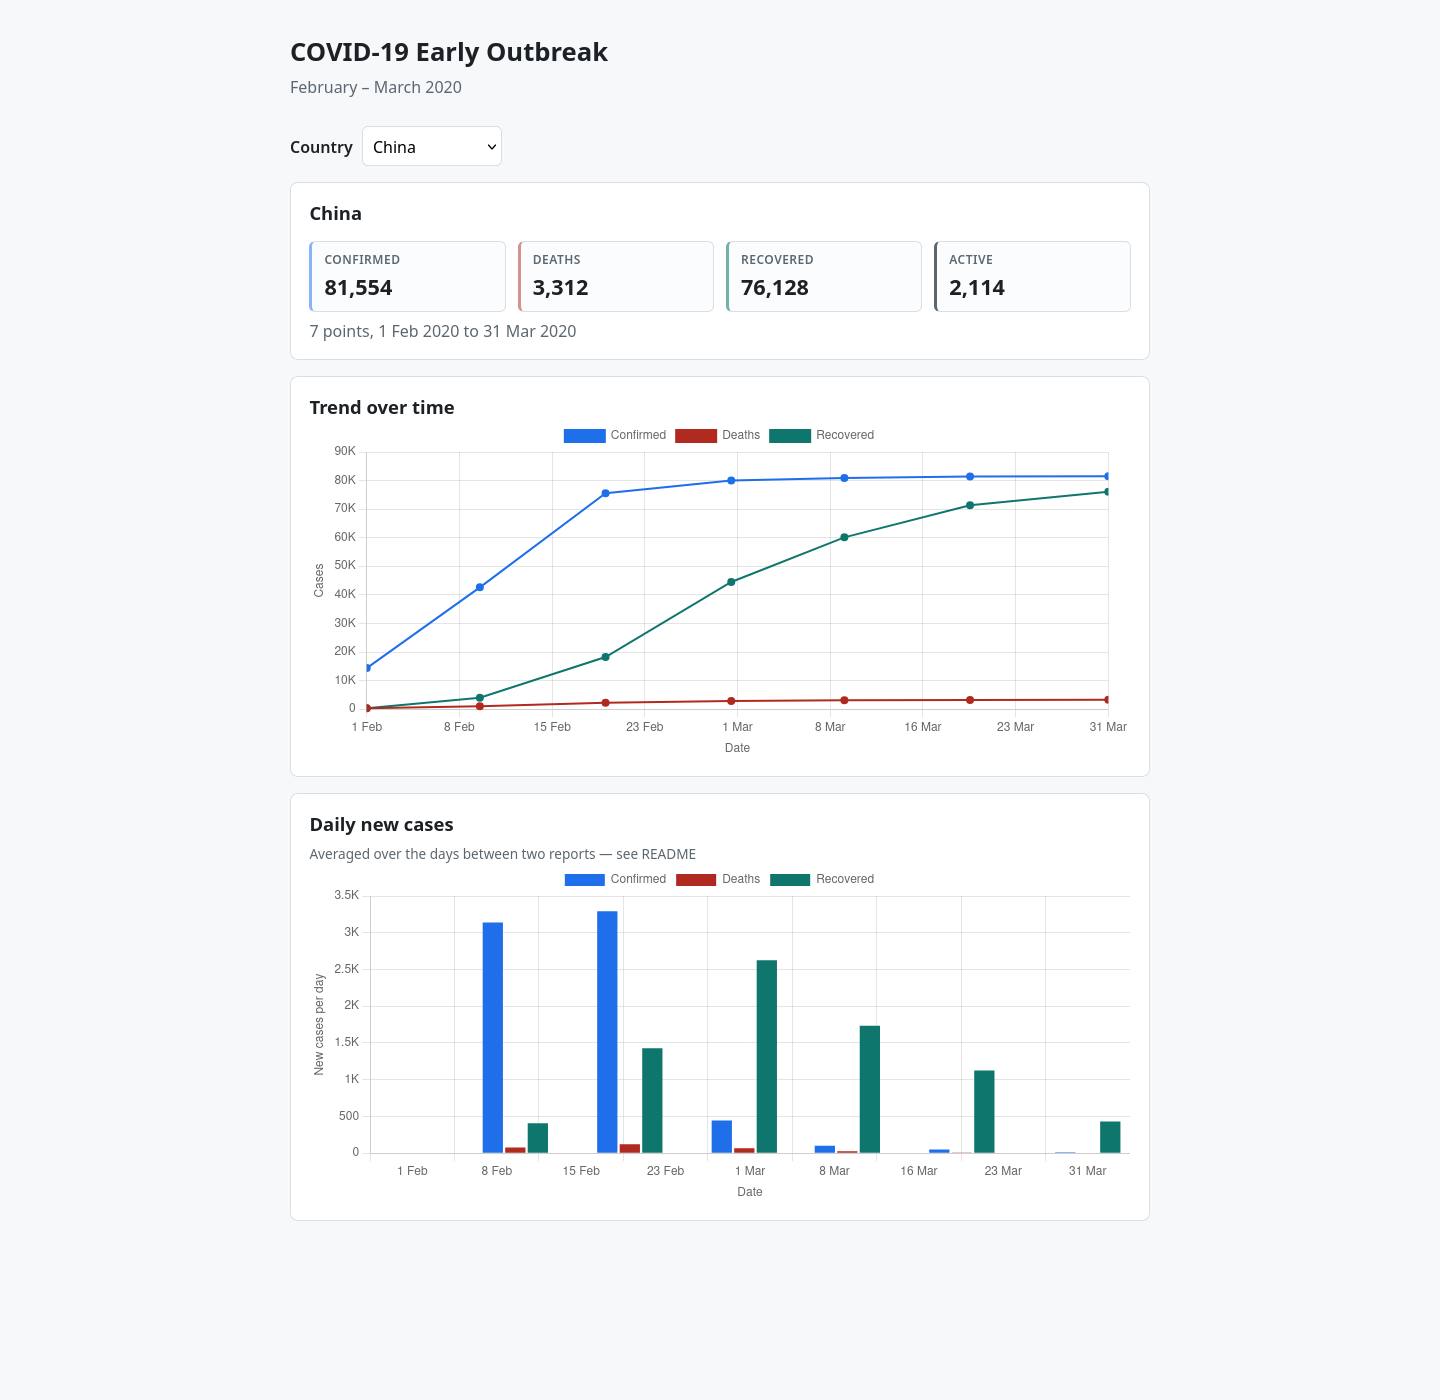
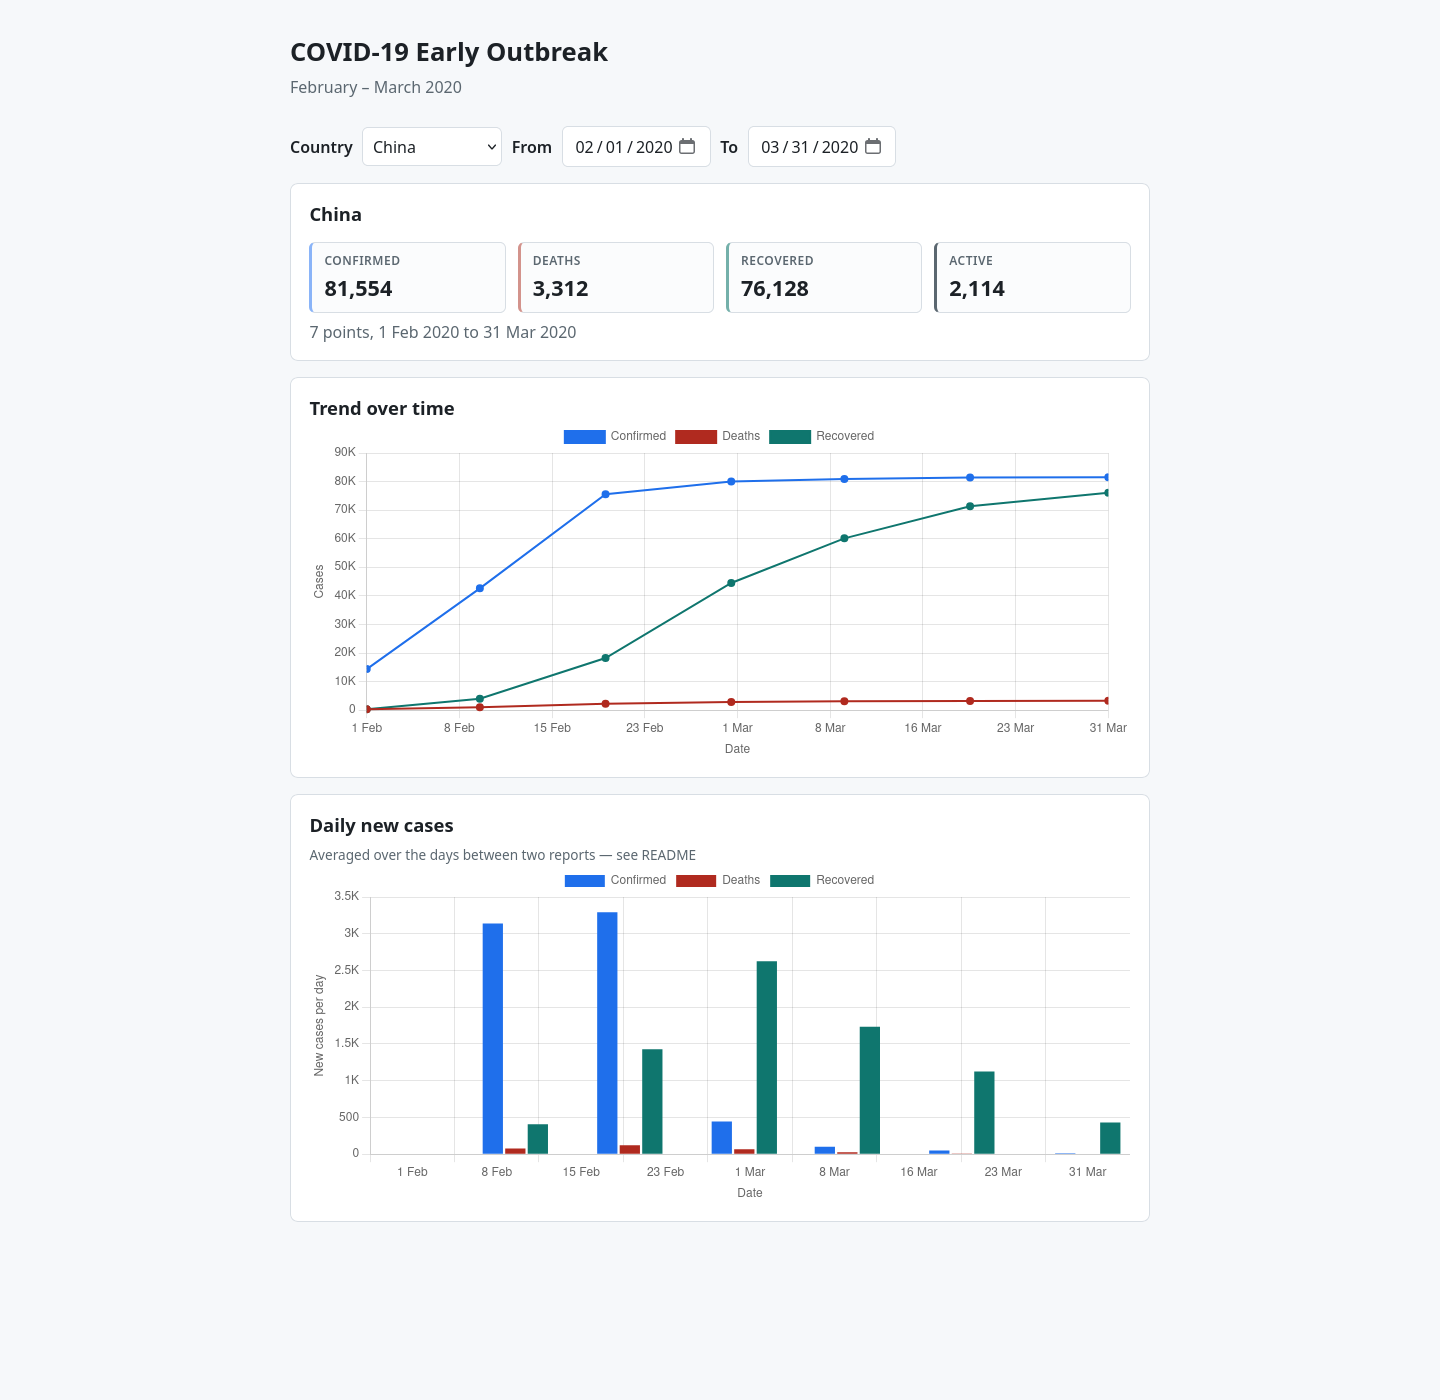
Prepare submission: evidence map, assumptions and refreshed screenshots

diff --git a/css/styles.css b/css/styles.css
@@ -153,3 +153,19 @@ input[type="date"]:disabled {
 .error {
   color: #b02a1f;
 }
+
+/* Below tablet width the two charts are already stacked and scrollable; this
+   just trims the padding and chart height so less scrolling is needed. */
+@media (max-width: 640px) {
+  main {
+    padding: 1.25rem 0.9rem;
+  }
+
+  .chart {
+    height: 260px;
+  }
+
+  .metrics {
+    gap: 0.5rem;
+  }
+}

diff --git a/index.html b/index.html
@@ -13,6 +13,10 @@
       <h1>COVID-19 Early Outbreak</h1>
       <p class="sub">February – March 2020</p>
 
+      <noscript>
+        <p class="error">This dashboard needs JavaScript to fetch the data and draw the charts.</p>
+      </noscript>
+
       <div class="controls">
         <label for="country">Country</label>
         <select id="country" disabled></select>

diff --git a/README.md b/README.md
@@ -3,6 +3,20 @@
 Dashboard for the early COVID-19 outbreak period (February–March 2020), built
 around the supplied `covid-19.json` snapshot.
 
+## Requirements
+
+Nothing to install to *run* it. `index.html`, `css/`, `js/`, `vendor/` and
+`covid-19.json` are all that get served, Chart.js is vendored, and there is no
+build step or CDN.
+
+The optional extras want a little more:
+
+| Task | Needs |
+| --- | --- |
+| serving the page | Python 3 (or any static server) |
+| `node --test …` | Node 18+ — the built-in test runner, no packages |
+| `scripts/screenshot.sh` | Firefox, plus Python 3 and Pillow for the image check |
+
 ## Running it
 
 The page fetches the JSON at runtime, so it has to be served over HTTP —
@@ -20,6 +34,21 @@ Add `?country=IT` to the URL to preselect a country, e.g.
 
 `?sync=1` makes the page fetch the JSON synchronously. It exists only for the
 screenshot script — see below — and nothing in normal use needs it.
+
+## The date range
+
+**From** and **To** narrow both charts to the reports inside the range; the
+metric cards show the latest report that falls inside it. The bounds are the
+selected country's own first and last report, so the picker can't offer a date
+the country never reported. Choosing another country resets the range to that
+country's full span, and a range holding no reports hides the charts and says
+which dates were empty rather than drawing an axis with nothing on it.
+
+The range is inclusive at both ends, filters the two charts from one place, and
+works on report dates rather than the gaps between them: the first report inside
+a range has no predecessor, so it carries no "new cases" bar. It can also be set
+from the URL, the same way `?country` works —
+<http://localhost:8000/?country=ZA&from=2020-03-01&to=2020-03-20>.
 
 ## The data
 
@@ -82,6 +111,22 @@ What the choice costs:
 
 The arithmetic is pinned against the real dataset in `tests/calc.test.mjs`.
 
+## What the dashboard shows
+
+Four things stand out once the charts are read side by side:
+
+* **China had turned the corner before the window closes.** Confirmed cases
+  climb steeply to 20 Feb, then the rate collapses — 3,293/day for 10–20 Feb,
+  446/day for 1–10 Mar and 12.5/day for 20–31 Mar — while the recovered line
+  keeps rising. On this data the February peak is the whole story.
+* **Italy and the US grow later and harder.** Italy accelerates through March
+  to 5,343/day by 31 Mar; the US starts from almost nothing and finishes
+  steeper still at 15,377/day — the tallest bar on the dashboard.
+* **South Korea bends without spiking.** Its rate peaks at 420/day for
+  1–10 Mar and falls to 103/day for 20–31 Mar: a plateau, not an explosion.
+* **South Africa is a different order of magnitude.** Its first report is
+  5 Mar 2020 with a single case, and it never passes 1,353 confirmed.
+
 ## Charts
 
 **Chart.js, vendored.** The brief allows Chart.js, D3, Plotly or ApexCharts.
@@ -123,6 +168,28 @@ give up the true spacing the line chart gets right.
 itself. The screenshot check counts exact series-colour pixels to tell a drawn
 chart from an empty one, and a full-height card border would read as a bar.
 
+## Assumptions
+
+Where the brief left room, these are the readings taken:
+
+* **"New cases per day" is an interval average, not a daily count.** The file
+  only holds snapshots, so a rate is the honest figure available; it is labelled
+  as a rate everywhere it appears (see *Daily new cases*).
+* **Active cases are derived**, `confirmed − deaths − recovered`, because the
+  dataset supplies only the first three.
+* **"Peak in February" is judged from the reports present.** China's real
+  one-day spike on 12 Feb is invisible between snapshots, so the February peak
+  here is the 10–20 Feb interval.
+* **The date filter is inclusive, drives both charts and the cards together,
+  and resets when the country changes** rather than carrying one country's dates
+  onto another whose reports fall on different days.
+* **A range with no reports hides the charts** instead of plotting an empty
+  axis.
+* **Only the five countries in the supplied file are offered** — there is no
+  live feed, the file *is* the dataset.
+* **Screenshots are captured headlessly at two fixed widths** (1440 desktop,
+  820 tablet) because the brief asks for desktop and tablet.
+
 ## Layout
 
 ```
@@ -146,10 +213,29 @@ node --test tests/calc.test.mjs tests/charts.test.mjs tests/app.test.mjs
 ```
 
 `calc` covers the data layer against the real dataset: normalisation, active
-cases, and the daily-new-cases averages checked against known figures. `charts`
-checks both chart configs — datasets, points, axis bounds, tick dates, tooltip
-wording, animation — with no DOM involved. `app` runs `app.js` against a small
-DOM stub, covering the load → selector → both-charts path and both error paths.
+cases, the daily-new-cases averages checked against known figures, and date
+filtering. `charts` checks both chart configs — datasets, points, axis bounds,
+tick dates, tooltip wording, animation — with no DOM involved. `app` runs
+`app.js` against a small DOM stub, covering the load → selector → range →
+both-charts path and both error paths.
+
+## Testing evidence
+
+The brief asks to see four specific things. Each is backed by a capture and a
+test:
+
+| What the brief asks for | Screenshot | Test |
+| --- | --- | --- |
+| China shows a peak in February | `screenshots/dashboard-CN-1440x1400.png` — tallest bar ends 20 Feb | `China peaks in February rather than March` |
+| Italy shows rapid growth in March | `screenshots/dashboard-IT-1440x1400.png` — bars rise to 5,343/day | `daily new cases are averaged over the gap between reports` |
+| South Africa's first case is 5 Mar | `screenshots/dashboard-ZA-1440x1400.png` — coverage line reads "5 Mar 2020" | `South Africa starts on 5 March with its first case` |
+| Daily new cases match known figures | — see *Daily new cases* above | `daily new cases are averaged over the gap between reports` |
+
+Every capture is machine-checked before it is kept: `scripts/screenshot.sh`
+counts pixels for both charts and refuses to write an image missing either one,
+so a green screenshot is evidence that the chart actually rendered. The
+next section explains that check; the *Daily new cases* section above is where
+the figures are held against JHU's published totals.
 
 ## Screenshots
 
